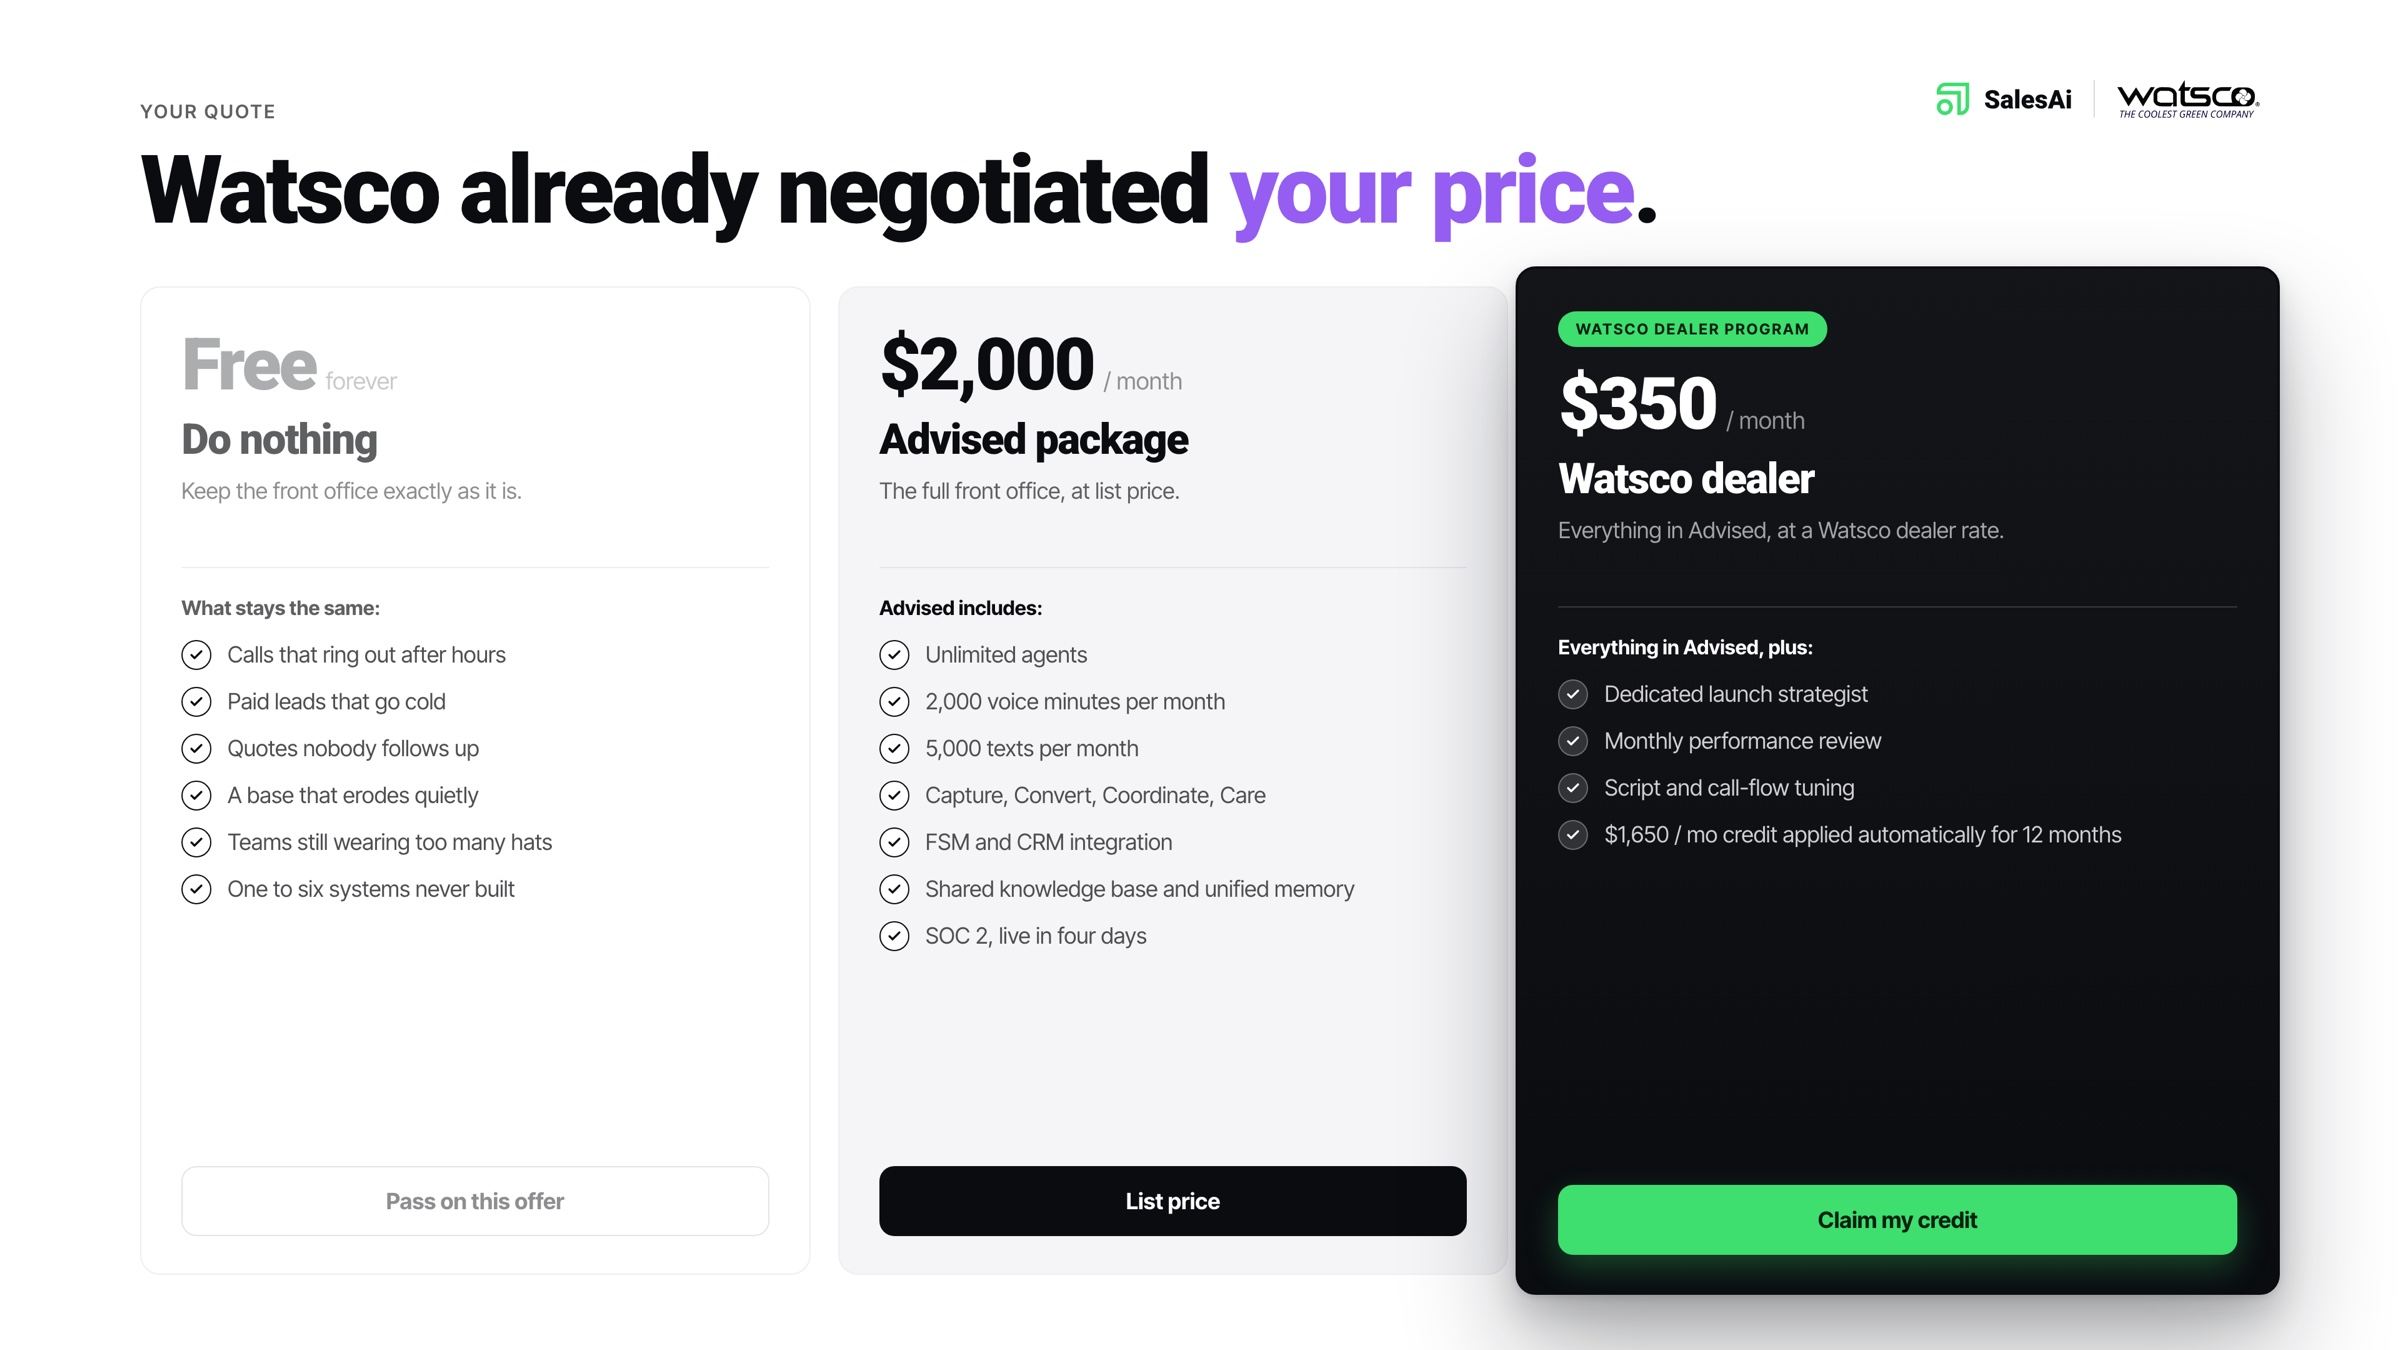
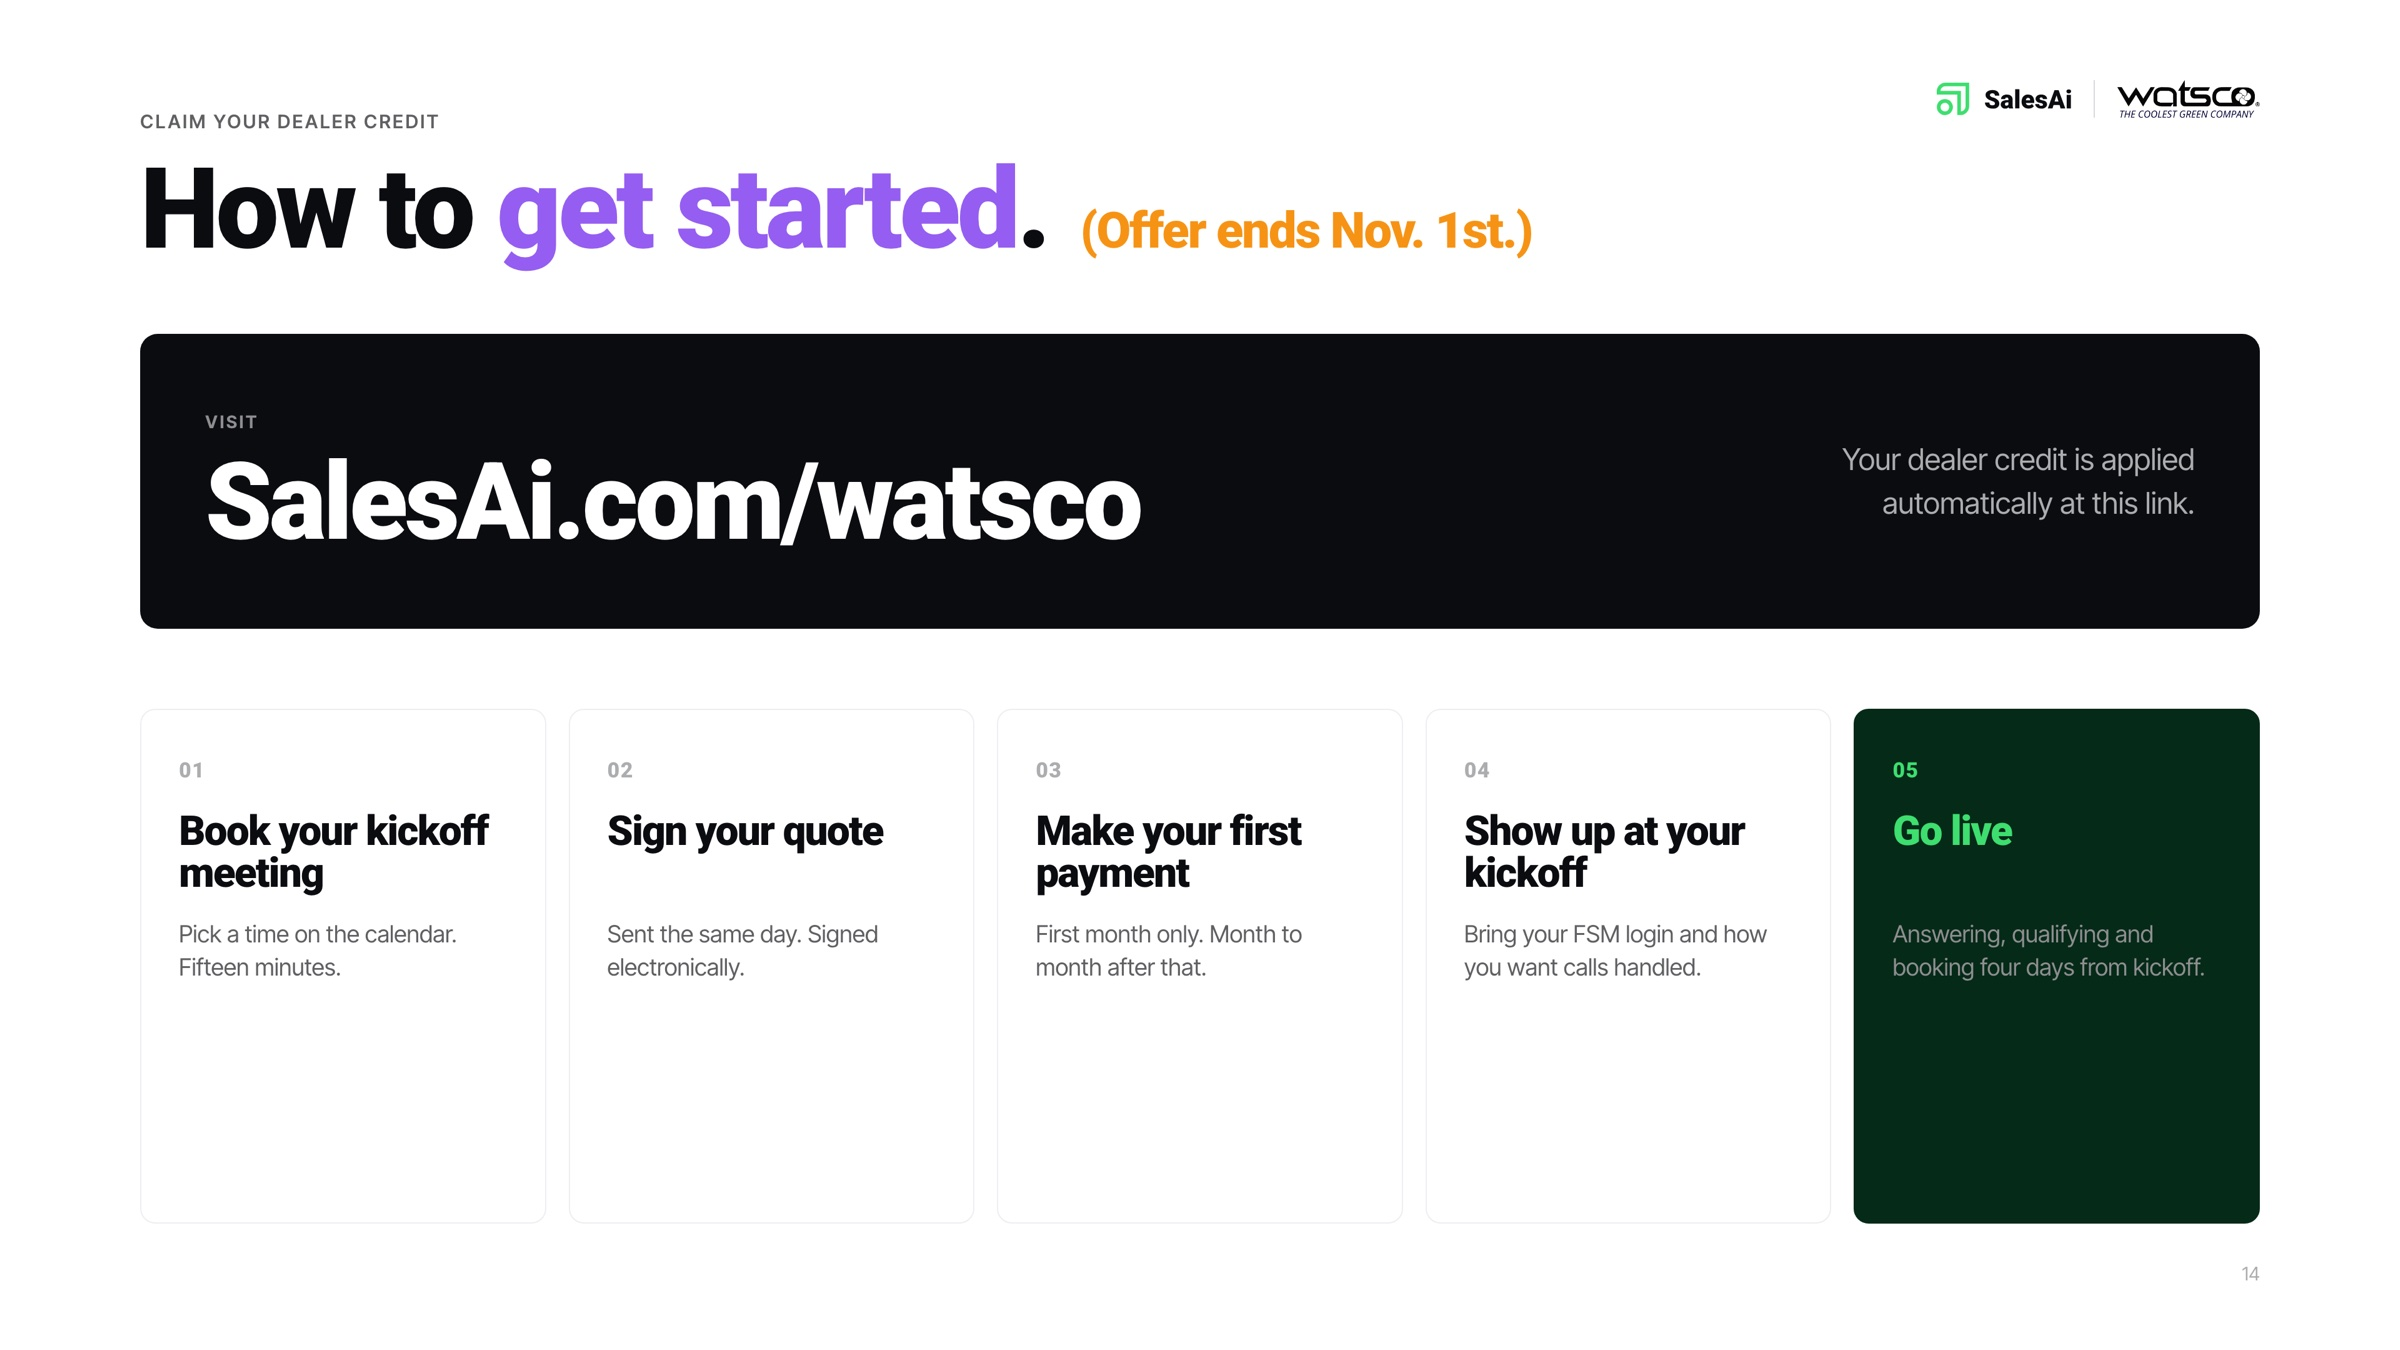
Deck: pricing is the final slide
'How to get started' moves to 14, pricing to 15. Quote headline is
now 'Watsco negotiated your price. Claim it.'

Claude-Session: https://claude.ai/code/session_01541ZQJSzd5g49QbE64sNeN

diff --git a/watsco-dealer-deck.html b/watsco-dealer-deck.html
@@ -101,8 +101,8 @@ nav{position:fixed;inset:0 0 auto 0;height:var(--nav);z-index:100;background:#00
 <section class="s" data-n="11"><img src="watsco-deck/11.jpg?v=0dd8a9b20b" width="2400" height="1350" alt="Slide 11 — What compounds" loading="lazy" decoding="async"></section>
 <section class="s" data-n="12"><img src="watsco-deck/12.jpg?v=e57f569dd8" width="2400" height="1350" alt="Slide 12 — Proof" loading="lazy" decoding="async"></section>
 <section class="s" data-n="13"><img src="watsco-deck/13.jpg?v=84be0091f0" width="2400" height="1350" alt="Slide 13 — Enterprise-grade security" loading="lazy" decoding="async"></section>
-<section class="s" data-n="14"><img src="watsco-deck/14.jpg?v=ad2231dd57" width="2400" height="1350" alt="Slide 14 — Your quote" loading="lazy" decoding="async"></section>
-<section class="s" data-n="15"><img src="watsco-deck/15.jpg?v=428baae9e3" width="2400" height="1350" alt="Slide 15 — Claim your dealer credit" loading="lazy" decoding="async"></section>
+<section class="s" data-n="14"><img src="watsco-deck/14.jpg?v=6e3613cff2" width="2400" height="1350" alt="Slide 14 — How to get started" loading="lazy" decoding="async"></section>
+<section class="s" data-n="15"><img src="watsco-deck/15.jpg?v=c8d12954cc" width="2400" height="1350" alt="Slide 15 — Your quote" loading="lazy" decoding="async"></section>
 <div class="count" id="c">01 / 15</div>
 <script>
 (function(){
